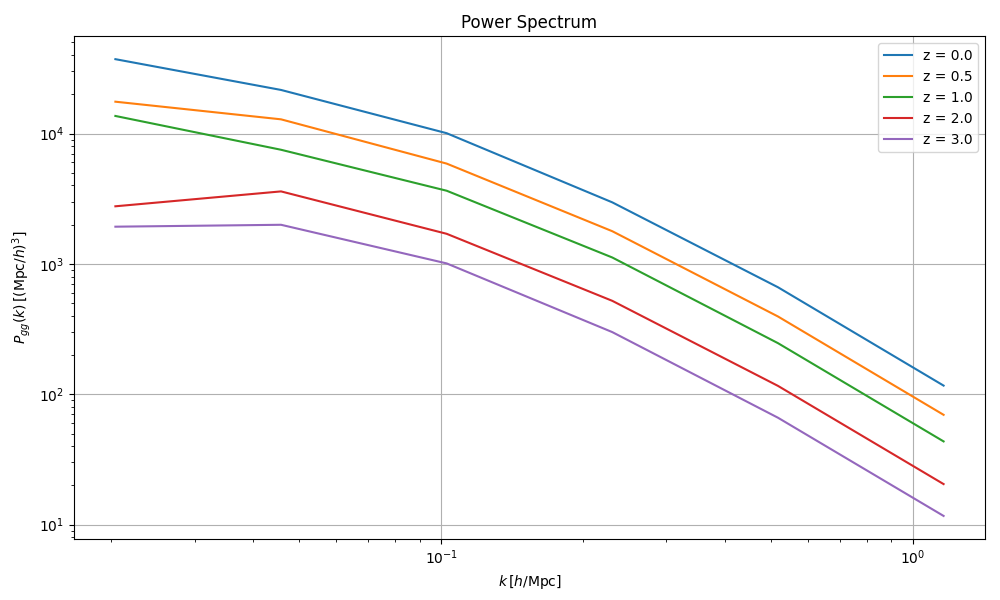
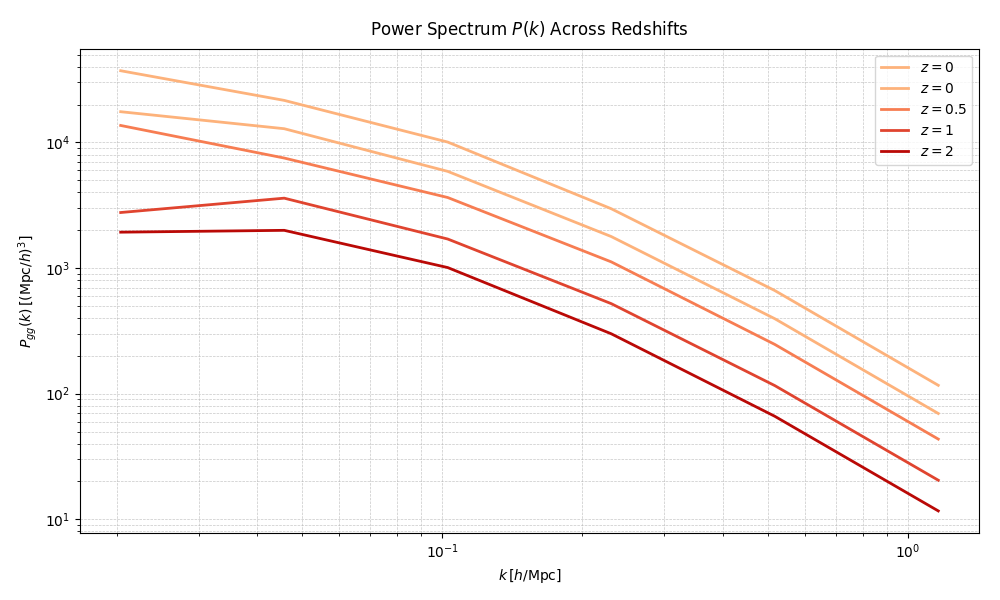
Updated plot color scheme

diff --git a/src/plot_power_spectrum.py b/src/plot_power_spectrum.py
@@ -2,6 +2,14 @@ import numpy as np
 import matplotlib.pyplot as plt
 import sys
 import os
+import matplotlib.cm as cm
+import matplotlib.colors as mcolors
+
+z_vals = ["0", "0.5", "1", "2", "3"]
+full_cmap = cm.get_cmap("OrRd")
+sliced_cmap = [full_cmap(i) for i in np.linspace(0.4, 1.0, len(z_vals))]
+colormap = cm.get_cmap("OrRd", len(z_vals)) 
+z_colors = {z: sliced_cmap[i] for i, z in enumerate(z_vals)}
 
 def main():
     if len(sys.argv) < 2:
@@ -16,7 +24,7 @@ def main():
     # Initialize plot
     plt.figure(figsize=(10, 6))
 
-    for filename in sorted(os.listdir(input_dir)):
+    for idx, filename in enumerate(sorted(os.listdir(input_dir))):
         if filename.endswith(".txt"):
             input_path = os.path.join(input_dir, filename)
             
@@ -29,14 +37,29 @@ def main():
 
             z_part = filename.split("_z")[-1].replace(".txt", "")
             label = f"z = {z_part}"
-            plt.loglog(k, pk, label=label)
+            color = z_colors.get(z_part, "black")  # fallback is black
+            plt.loglog(k, pk, label=label, color=color, linewidth=2)
+
+    plt.rcParams.update({
+    "text.usetex": True,  
+    "font.family": "serif",
+    "font.size": 14,
+    "axes.labelsize": 16,
+    "axes.titlesize": 17,
+    "legend.fontsize": 13,
+    "xtick.labelsize": 13,
+    "ytick.labelsize": 13,
+    "lines.linewidth": 2,
+    })
+
+    
 
     plt.xlabel(r"$k \, [h/\mathrm{Mpc}]$")
     plt.ylabel(r"$P(k) \, [(\mathrm{Mpc}/h)^3]$")
-    plt.title("Matter Power Spectrum at Different Redshifts")
+    plt.title("Power Spectrum $P(k)$ Across Redshifts", pad=10)
     plt.legend()
-    plt.grid(True)
-    plt.tight_layout()
+    plt.grid(True, which="both", linestyle="--", linewidth=0.5, alpha=0.7)
+    plt.tight_layout(pad=1.5)
 
     # Save plot to output folder
     model_name = os.path.basename(input_dir)

diff --git a/src/w0wa_classpt.py b/src/w0wa_classpt.py
@@ -3,6 +3,15 @@ import numpy as np
 import matplotlib.pyplot as plt
 import os
 import sys
+import matplotlib.cm as cm
+import matplotlib.colors as mcolors
+
+z_vals = ["0", "0.5", "1", "2", "3"]
+full_cmap = cm.get_cmap("OrRd")
+sliced_cmap = [full_cmap(i) for i in np.linspace(0.4, 1.0, len(z_vals))]
+colormap = cm.get_cmap("OrRd", len(z_vals)) 
+z_colors = {z: sliced_cmap[i] for i, z in enumerate(z_vals)}
+
 
 # Extract model name from the script name
 script_name = os.path.basename(sys.argv[0])
@@ -63,16 +72,29 @@ for z in z_vals:
     np.savetxt(fname_txt, np.column_stack((k, Pk_gg)), header="k [h/Mpc]   P(k) [(Mpc/h)^3]")
     print(f"Saved {fname_txt}")
 
-    plt.loglog(k, Pk_gg, label=f"z = {z}")
+    color = z_colors.get(str(z), "black")  # fallback is black
+    plt.loglog(k, Pk_gg, label=f"z = {z}", color=color, linewidth=2)
     cosmo.struct_cleanup()
     cosmo.empty()
+
+plt.rcParams.update({
+    "text.usetex": True,  
+    "font.family": "serif",
+    "font.size": 14,
+    "axes.labelsize": 16,
+    "axes.titlesize": 17,
+    "legend.fontsize": 13,
+    "xtick.labelsize": 13,
+    "ytick.labelsize": 13,
+    "lines.linewidth": 2,
+    })
 
 plt.xlabel(r"$k \, [h/\mathrm{Mpc}]$")
 plt.ylabel(r"$P_{gg}(k) \, [(\mathrm{Mpc}/h)^3]$")
 plt.title("Galaxy Power Spectrum from CLASS-PT")
-plt.grid(True)
+plt.grid(True, which="both", linestyle="--", linewidth=0.5, alpha=0.7)
+plt.tight_layout(pad=1.5)
 plt.legend()
-plt.tight_layout()
 
 # Save figure using script name
 plot_path = os.path.join(outdir, f"pk_{model_name}_classpt.png")

diff --git a/src/planck_lcdm_classpt.py b/src/planck_lcdm_classpt.py
@@ -3,6 +3,14 @@ import numpy as np
 import matplotlib.pyplot as plt
 import os
 import sys
+import matplotlib.cm as cm
+import matplotlib.colors as mcolors
+
+z_vals = ["0", "0.5", "1", "2", "3"]
+full_cmap = cm.get_cmap("OrRd")
+sliced_cmap = [full_cmap(i) for i in np.linspace(0.4, 1.0, len(z_vals))]
+colormap = cm.get_cmap("OrRd", len(z_vals)) 
+z_colors = {z: sliced_cmap[i] for i, z in enumerate(z_vals)}
 
 # Extract model name from the script name
 script_name = os.path.basename(sys.argv[0])
@@ -52,16 +60,29 @@ for z in z_vals:
     np.savetxt(fname_txt, np.column_stack((k, Pk_gg)), header="k [h/Mpc]   P(k) [(Mpc/h)^3]")
     print(f"Saved {fname_txt}")
 
-    plt.loglog(k, Pk_gg, label=f"z = {z}")
+    color = z_colors.get(z, "black")  # fallback is black
+    plt.loglog(k, Pk_gg, label=f"z = {z}", color=color, linewidth=2)
     cosmo.struct_cleanup()
     cosmo.empty()
+
+plt.rcParams.update({
+    "text.usetex": True,  
+    "font.family": "serif",
+    "font.size": 14,
+    "axes.labelsize": 16,
+    "axes.titlesize": 17,
+    "legend.fontsize": 13,
+    "xtick.labelsize": 13,
+    "ytick.labelsize": 13,
+    "lines.linewidth": 2,
+    })
 
 plt.xlabel(r"$k \, [h/\mathrm{Mpc}]$")
 plt.ylabel(r"$P_{gg}(k) \, [(\mathrm{Mpc}/h)^3]$")
 plt.title("Galaxy Power Spectrum from CLASS-PT")
-plt.grid(True)
+plt.grid(True, which="both", linestyle="--", linewidth=0.5, alpha=0.7)
+plt.tight_layout(pad=1.5)
 plt.legend()
-plt.tight_layout()
 
 # Save figure using script name
 plot_path = os.path.join(outdir, f"pk_{model_name}_classpt.png")

diff --git a/src/field_power_spectrum.py b/src/field_power_spectrum.py
@@ -3,6 +3,14 @@ import os
 import sys
 import matplotlib.pyplot as plt
 from scipy.stats import binned_statistic
+from matplotlib import cm
+
+z_vals = ["0", "0.5", "1", "2", "3"]
+full_cmap = cm.get_cmap("OrRd")
+sliced_cmap = [full_cmap(i) for i in np.linspace(0.4, 1.0, len(z_vals))]
+colormap = cm.get_cmap("OrRd", len(z_vals)) 
+z_colors = {z: sliced_cmap[i] for i, z in enumerate(z_vals)}
+
 
 def extract_redshift(filename):
     try:
@@ -87,20 +95,24 @@ def main():
         print(f"z = {z:.2f}: Mean = {np.mean(field):.5f}, Variance = {np.var(field):.5f}")
 
         k_vals, pk_vals = compute_power_spectrum(field, box_size)
-        plt.loglog(k_vals, pk_vals, label=f"z = {z}")
+        z_part = z_vals[int(z)]
+        label = f"$z = {z_part}$"
+        color = z_colors.get(z_part, "black")  # fallback is black
+        plt.loglog(k_vals, pk_vals, label=label, color=color, linewidth=2)
 
     plt.xlabel(r"$k \, [h/\mathrm{Mpc}]$")
     plt.ylabel(r"$P_{gg}(k) \, [(\mathrm{Mpc}/h)^3]$")
-    plt.title("Power Spectrum")
+    plt.title("Power Spectrum $P(k)$ Across Redshifts", pad=10)
     plt.legend()
-    plt.grid(True)
-    plt.tight_layout()
+    plt.grid(True, which="both", linestyle="--", linewidth=0.5, alpha=0.7)
+    plt.tight_layout(pad=1.5)
 
     # Save figure in the same directory
     output_path = os.path.join(input_dir, "field_power_spectrum.png")
     plt.savefig(output_path)
     print(f"Saved plot to: {output_path}")
     plt.close()
+    plt.show()
 
 if __name__ == "__main__":
     main()
